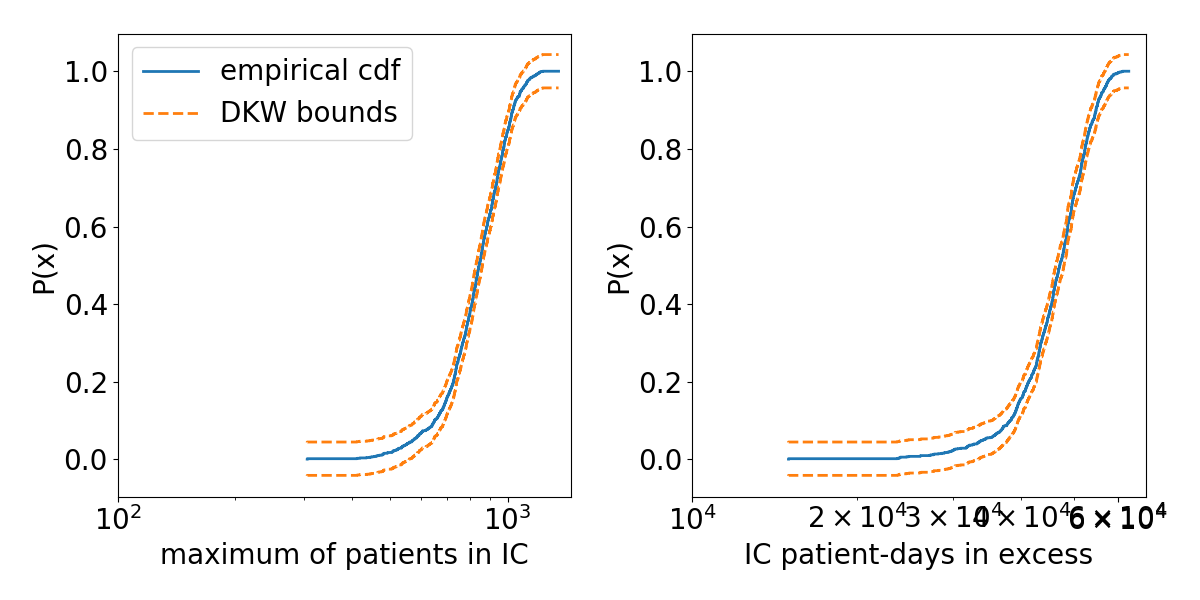
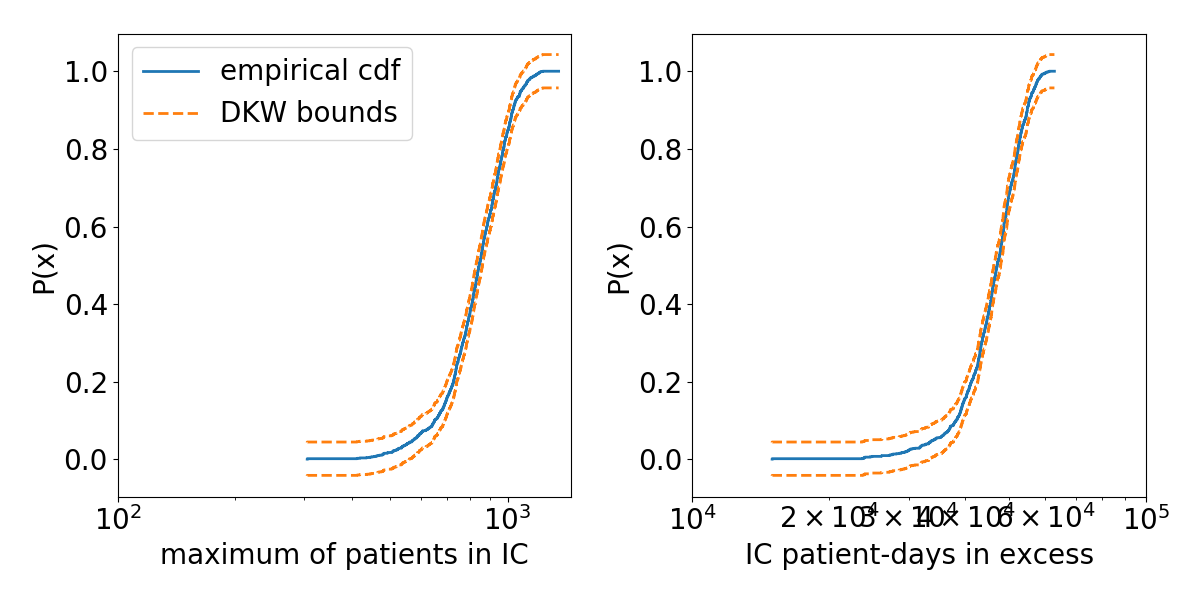
fix x-ticks

Changed region(s): [[0.7092, 0.09, 0.9558, 0.81], [0.6167, 0.84, 0.9867, 0.96]]

diff --git a/EasyVVUQ/cdf_post_proc_corona.py b/EasyVVUQ/cdf_post_proc_corona.py
@@ -104,7 +104,7 @@ ax_e.step(IC_ex_max,p+eps_DKW,linestyle='--',lw=2,color='tab:orange')
 ax_e.step(IC_ex_max,p-eps_DKW,linestyle='--',lw=2,color='tab:orange')
 #ax_e.step(IC_ex_max_MC100,p_MC100,lw=2,color='tab:olive')
 ax_e.set_xscale('log')
-ax_e.set_xticks([1e4, 6e4])
+ax_e.set_xticks([1e4, 1e5])
 
 ax_p.legend(loc='best')
 plt.tight_layout()
